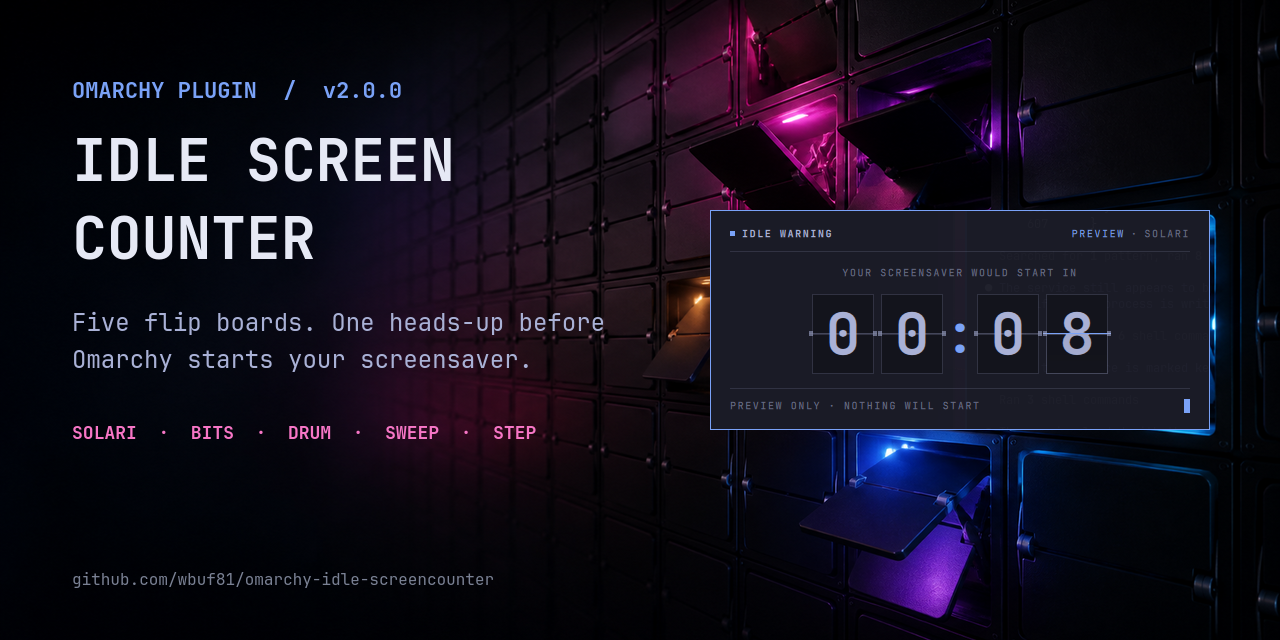
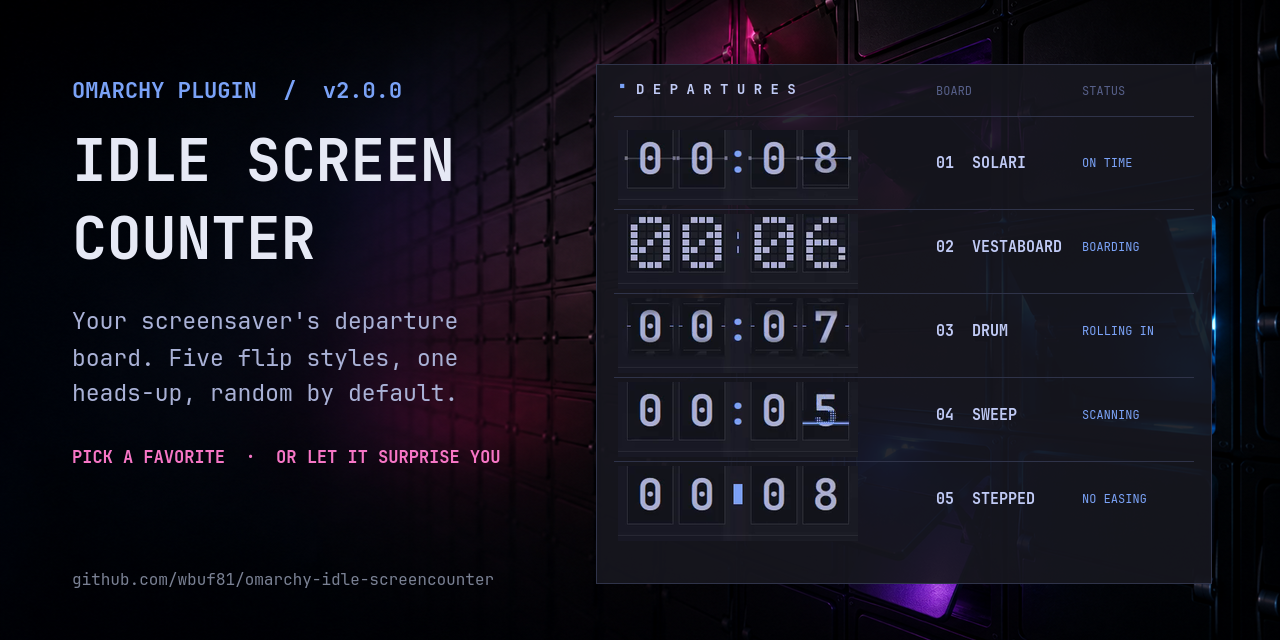
Soften picker hover and redraw the share card as a departure board
The settings panel's miniature board now waits for the pointer to rest on a
style tile before following it, and dissolves between boards instead of
swapping hard. The marketplace preview and social card show all five boards as
rows of a departures panel.

diff --git a/Panel.qml b/Panel.qml
@@ -38,9 +38,35 @@ Panel {
   // the boards; hovering a picker tile shows that board instead.
   property string hoverStyle: ""
   property string tourStyle: "solari"
-  readonly property string heroStyle: hoverStyle !== "" && hoverStyle !== "random" ? hoverStyle
+  // What the hero should show. `heroStyle` follows it after a short crossfade
+  // so hovering across the picker reads as a dissolve, not a hard swap.
+  readonly property string targetStyle: hoverStyle !== "" && hoverStyle !== "random" ? hoverStyle
     : (flipStyle === "random" ? tourStyle : flipStyle)
+  property string heroStyle: "solari"
+  property real heroOpacity: 1
   property int heroSeconds: 0
+
+  onTargetStyleChanged: heroSwap.restart()
+
+  SequentialAnimation {
+    id: heroSwap
+    NumberAnimation { target: root; property: "heroOpacity"; to: 0; duration: 140; easing.type: Easing.InQuad }
+    ScriptAction { script: root.heroStyle = root.targetStyle }
+    NumberAnimation { target: root; property: "heroOpacity"; to: 1; duration: 220; easing.type: Easing.OutQuad }
+  }
+
+  // Hover intent: the miniature only follows a tile the pointer rests on.
+  property string pendingHover: ""
+  Timer {
+    id: hoverDwell
+    interval: 160
+    onTriggered: root.hoverStyle = root.pendingHover
+  }
+  function hoverTile(style, hovered) {
+    if (hovered) { pendingHover = style; hoverDwell.restart(); return }
+    if (pendingHover === style) { pendingHover = ""; hoverDwell.stop() }
+    if (hoverStyle === style) hoverStyle = ""
+  }
   // The host injects `settings` after construction; skip work until then.
   property bool ready: false
 
@@ -101,7 +127,7 @@ Panel {
   onScreensaverSecondsChanged: if (ready) resetHero()
   onLockSecondsChanged: if (ready) resetHero()
   onOpenedChanged: if (opened) { resetHero(); tourStyle = Logic.nextFlipStyle(tourStyle) }
-  Component.onCompleted: { ready = true; resetHero() }
+  Component.onCompleted: { heroStyle = targetStyle; ready = true; resetHero() }
 
   Timer {
     interval: 1000
@@ -265,6 +291,7 @@ Panel {
             height: Style.space(56)
             FlipBoard {
               anchors.centerIn: parent
+              opacity: root.heroOpacity
               style: root.heroStyle
               value: root.time(root.heroSeconds)
               tileWidth: Style.space(44)
@@ -335,7 +362,7 @@ Panel {
             accent: Color.accent
 
             HoverHandler {
-              onHoveredChanged: root.hoverStyle = hovered ? pick.modelData : (root.hoverStyle === pick.modelData ? "" : root.hoverStyle)
+              onHoveredChanged: root.hoverTile(pick.modelData, hovered)
             }
             MouseArea {
               anchors.fill: parent

diff --git a/CHANGELOG.md b/CHANGELOG.md
@@ -10,8 +10,8 @@
 - Settings panel redesigned in the same language: status readout in the header,
   a live miniature board that previews on click, a flip-style picker, lean
   timeline rows with inline presets, and a footer row for placement and preview.
-- Hovering a style in the picker shows it on the miniature board; clicking it
-  previews it on the desktop.
+- Hovering a style in the picker shows it on the miniature board after a short
+  dwell, with a crossfade between boards; clicking it previews it on the desktop.
 - Work with Omarchy 4.0.3's scoped plugin API: read the bar entry from
   `shell.barConfig`, fall back to the entry-only settings write when the shell
   refuses whole-config mutation. Without this the countdown never armed and
